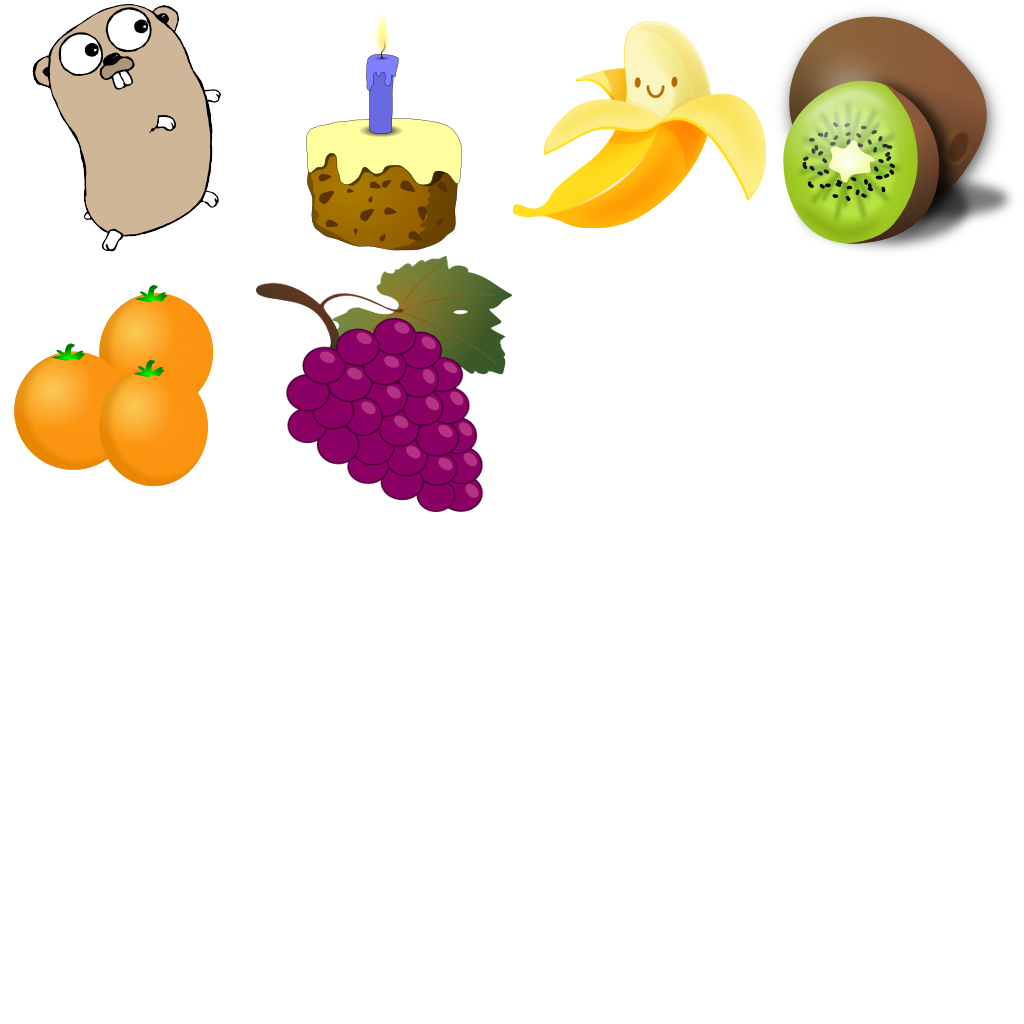
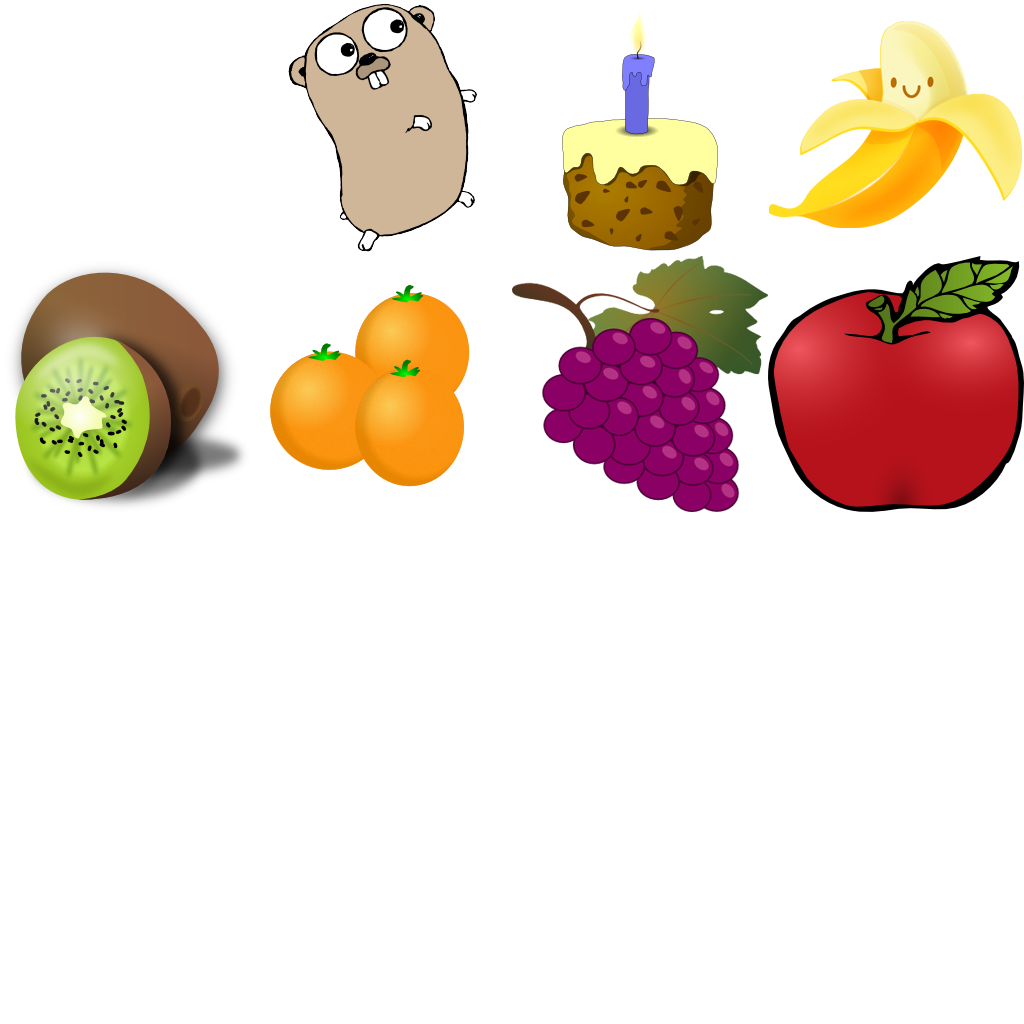
Added an apple fruit

Changed region(s): [[0.25, 0.0, 1.0, 0.5], [0.0, 0.0, 0.25, 0.5]]

diff --git a/python/tiles_generate.py b/python/tiles_generate.py
@@ -7,8 +7,8 @@ os.chdir(os.path.dirname(__file__) or '.')
 tilesDict = {
         ('tiles.png', 256, 256):
             [
-            ['gopher.png', 'cake.png', 'banana.png', 'kiwi.png'],
-            ['orange.png', 'grape.png', None, None],
+            [None, 'gopher.png', 'cake.png', 'banana.png'],
+            ['kiwi.png', 'orange.png', 'grape.png', 'apple.png'],
             [None, None, None, None],
             [None, None, None, None],
             ],

diff --git a/python/difficulty.py b/python/difficulty.py
@@ -1,3 +1,24 @@
+"""
+# with apples
+> generate_levels(12, 6, '5fr.lua', 'easy', false)
+generating
+sorting
+standardDeviation	1.2264344312443
+mean	8.03
+median	8
+mode	{8}
+maxmin	11	5
+> generate_levels(12, 6, '5fh.lua', 'easy', true)
+generating
+sorting
+standardDeviation	1.181122561401
+mean	6.67
+median	7
+mode	{6}
+maxmin	9	3
+
+"""
+
 import numpy as np
 import matplotlib.pyplot as plt
 import re
